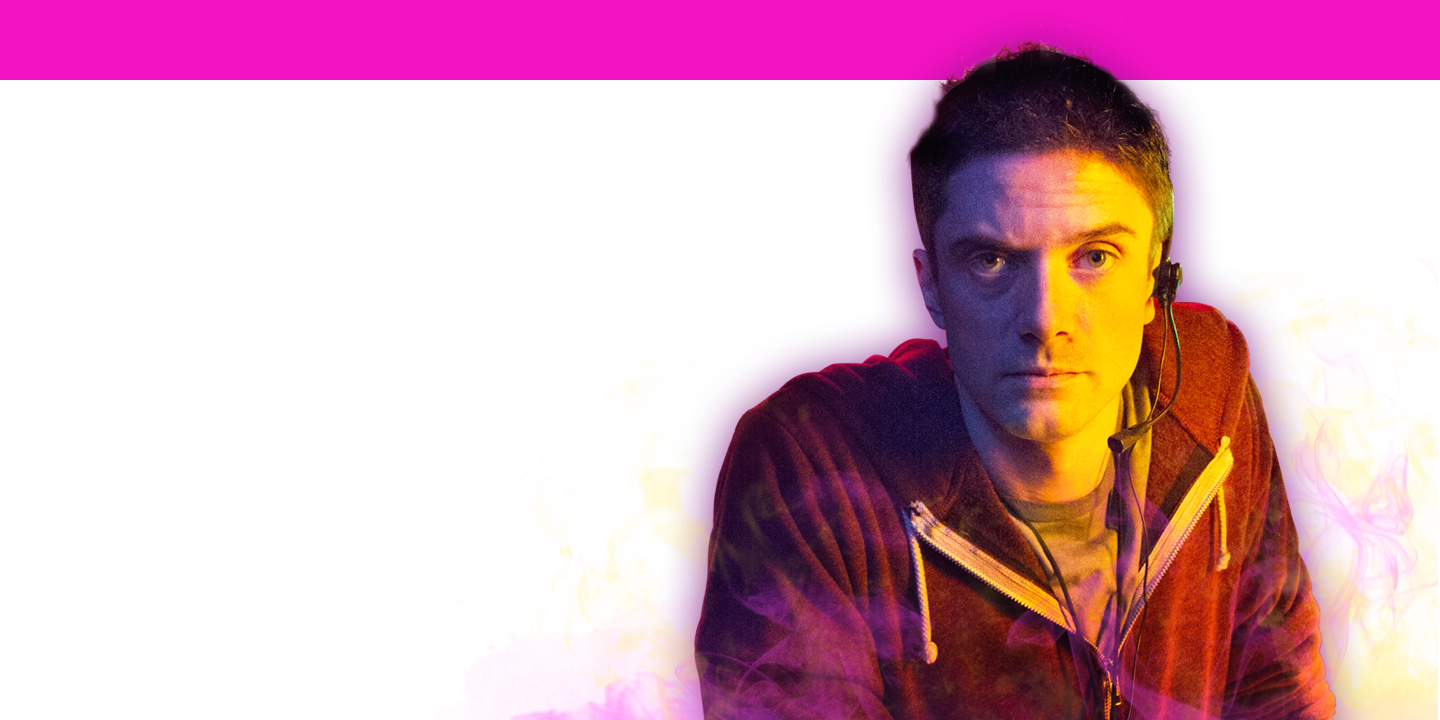
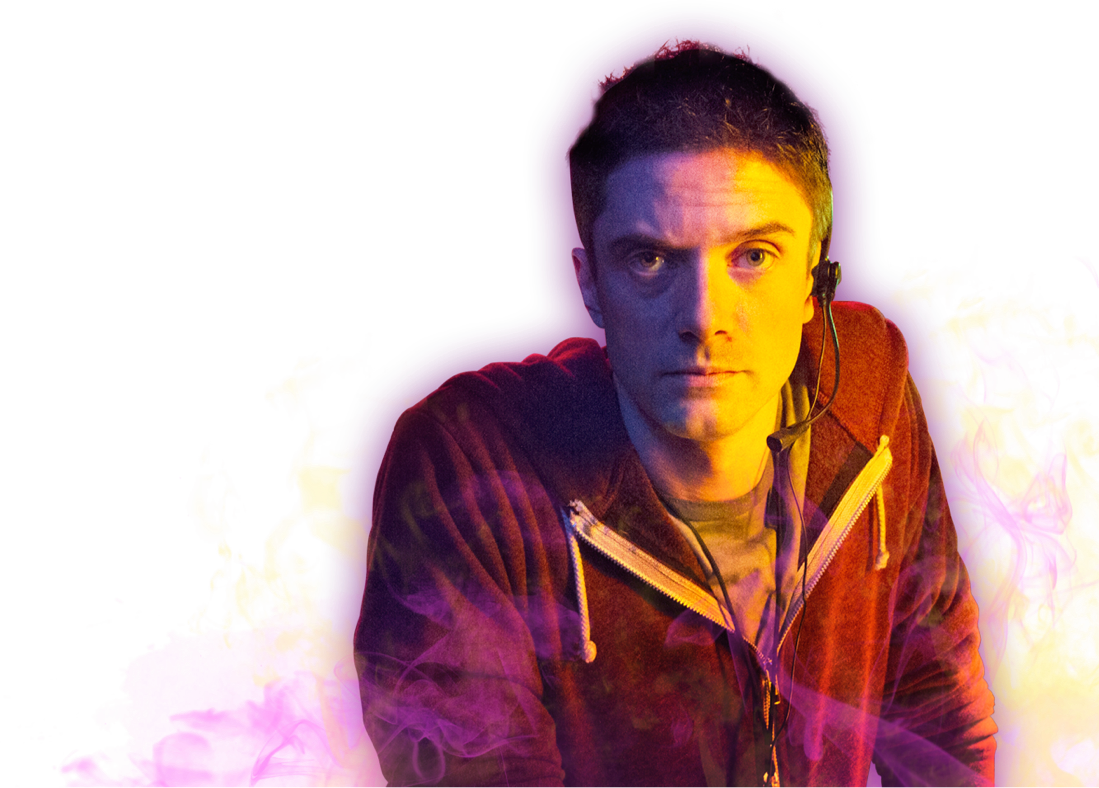
slider tablet person

diff --git a/src/components/Slider.vue b/src/components/Slider.vue
@@ -384,8 +384,11 @@
 <style lang="scss" scoped>
   @media (max-width: 768px) {
     .slider {
-      .person {
-        display: none;
+
+      .quote .person {
+        left: initial;
+        right: -20%;
+        bottom: 0;
       }
 
       .quotes {
@@ -413,11 +416,6 @@
       }
 
 
-      .arrows {
-        bottom: 20%;
-        right: 12%;
-      }
-
       .arrow-left {
         margin-right: 10px;
       }
@@ -436,6 +434,16 @@
 
   @media (max-width: 525px) {
     .slider {
+      .person {
+        display: none;
+      }
+
+      .arrows {
+        bottom: 20%;
+        left: initial;
+        right: 12%;
+      }
+
       .quote .content .title {
         font-size: 60px;
         span { display: block; }
